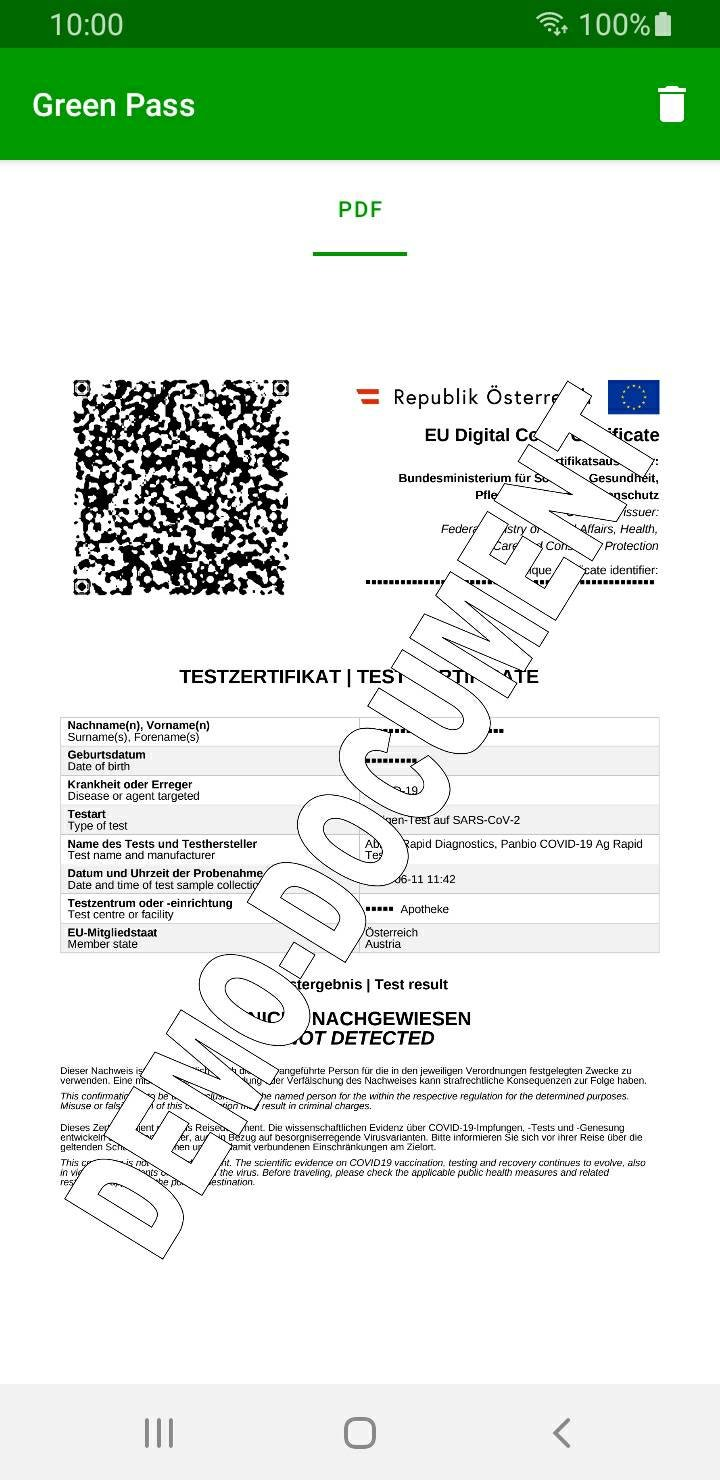
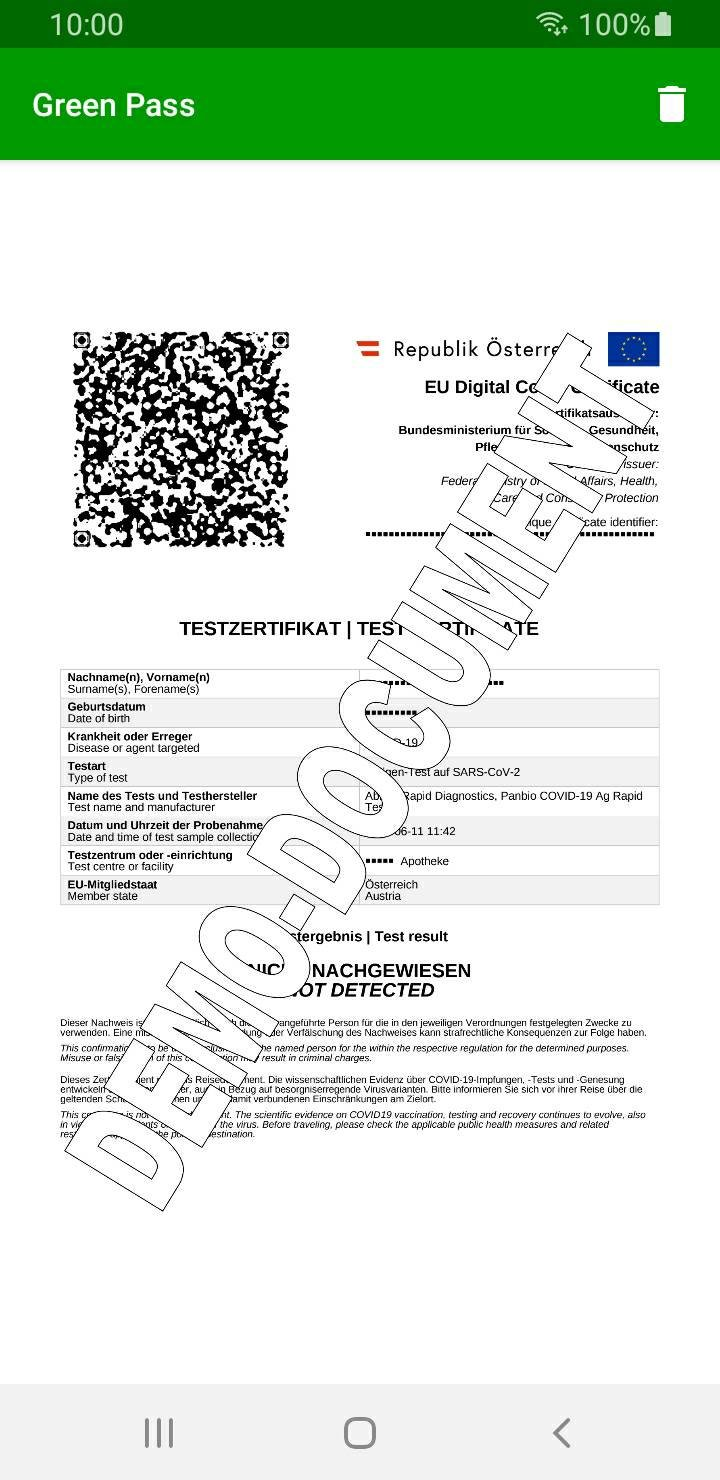
1.21 (#3)
* Fix pdf gets lost after some days

* Hide tabs when only 1 tab

* Fix TabLayoutMediator is already attached

* Refactor

* Gracefully handle read errors of pdf

* Fix no such method error due to ZXing core 3.4 requiring minsdk 24

* Save memory by reducing QR code size

* Reduce memory consumption of pdf

* Use less memory for pdf on low end device

* Handle read error from file picker gracefully

* Fix icon not shown on older android versions

* Refactoring

* Delete not needed file

* Refactoring

* Ignore exceptions during migration

* Update string

* Change screenshot

Changed region(s): [[0.0611, 0.2176, 0.9167, 0.8392], [0.4278, 0.1243, 0.55, 0.1865]]

diff --git a/app/src/main/java/com/michaeltroger/gruenerpass/pdf/PdfHandler.kt b/app/src/main/java/com/michaeltroger/gruenerpass/pdf/PdfHandler.kt
@@ -14,13 +14,18 @@ import kotlinx.coroutines.Dispatchers
 import kotlinx.coroutines.withContext
 import java.io.File
 import java.io.FileOutputStream
+import android.app.ActivityManager
+import android.content.Context
 
-private const val FILENAME = "certificate.pdf"
-private const val QR_CODE_SIZE = 1920
+
+const val PDF_FILENAME = "certificate.pdf"
+private const val QR_CODE_SIZE = 400
+private const val MULTIPLIER_PDF_RESOLUTION = 2
 
 object PdfHandler {
 
     private val context = GruenerPassApplication.instance
+    private val activityManager = context.getSystemService(Context.ACTIVITY_SERVICE) as ActivityManager
 
     private val qrCodeReader = QRCodeReader()
     private val qrCodeWriter = MultiFormatWriter()
@@ -28,7 +33,7 @@ object PdfHandler {
     private var bitmapDocument: Bitmap? = null
     private var bitmapQrCode: Bitmap? = null
 
-    private val file = File(context.cacheDir, FILENAME)
+    private val file = File(context.filesDir, PDF_FILENAME)
 
     fun getQrBitmap() = bitmapQrCode
     fun getPdfBitmap() = bitmapDocument
@@ -45,17 +50,35 @@ object PdfHandler {
         bitmapQrCode = null
     }
 
-    suspend fun parsePdfIntoBitmap() = withContext(Dispatchers.IO) {
-        val renderer = PdfRenderer(ParcelFileDescriptor.open(file, ParcelFileDescriptor.MODE_READ_ONLY))
+    /**
+     * @return true if successful
+     */
+    suspend fun parsePdfIntoBitmap(): Boolean = withContext(Dispatchers.IO) {
+        val fileDescriptor = ParcelFileDescriptor.open(file, ParcelFileDescriptor.MODE_READ_ONLY)
+        val renderer: PdfRenderer
+        try {
+            renderer = PdfRenderer(fileDescriptor)
+        } catch (exception: Exception) {
+            deleteFile()
+            return@withContext false
+        }
+
         val page: PdfRenderer.Page = renderer.openPage(0)
 
-        bitmapDocument = Bitmap.createBitmap(page.width * 3, page.height * 3, Bitmap.Config.ARGB_8888)!!
+        var width: Int = page.width
+        var height: Int = page.height
+        if (!activityManager.isLowRamDevice) {
+            width *= MULTIPLIER_PDF_RESOLUTION
+            height *= MULTIPLIER_PDF_RESOLUTION
+        }
+        bitmapDocument = Bitmap.createBitmap(width, height, Bitmap.Config.ARGB_8888)!!
         page.render(bitmapDocument!!, null, null, PdfRenderer.Page.RENDER_MODE_FOR_DISPLAY)
 
         page.close()
         renderer.close()
 
         extractQrCodeIfAvailable(bitmapDocument!!)
+        return@withContext true
     }
 
     private fun extractQrCodeIfAvailable(bitmap: Bitmap) {
@@ -89,21 +112,20 @@ object PdfHandler {
             }
         }
 
-        bitmapQrCode = Bitmap.createBitmap(w, h, Bitmap.Config.ARGB_8888)
+        bitmapQrCode = Bitmap.createBitmap(w, h, Bitmap.Config.RGB_565)
         bitmapQrCode!!.setPixels(pixels, 0, QR_CODE_SIZE, 0, 0, w, h)
     }
 
-    suspend fun copyPdfToCache(uri: Uri) = withContext(Dispatchers.IO) {
-        val inputStream = context.contentResolver.openInputStream(uri)!!
-
-        val output = FileOutputStream(file)
-        val buffer = ByteArray(1024)
-        var size: Int
-        while (inputStream.read(buffer).also { size = it } != -1) {
-            output.write(buffer, 0, size)
+    /**
+     * @return true if successful
+     */
+    suspend fun copyPdfToCache(uri: Uri): Boolean = withContext(Dispatchers.IO) {
+        try {
+            val inputStream = context.contentResolver.openInputStream(uri)!!
+            inputStream.copyTo(FileOutputStream(file))
+            return@withContext true
+        } catch (exception: Exception) {
+            return@withContext false
         }
-
-        inputStream.close()
-        output.close()
     }
 }

diff --git a/app/src/main/java/com/michaeltroger/gruenerpass/MainFragment.kt b/app/src/main/java/com/michaeltroger/gruenerpass/MainFragment.kt
@@ -7,9 +7,11 @@ import android.view.*
 import androidx.fragment.app.Fragment
 import android.widget.Button
 import androidx.activity.result.contract.ActivityResultContracts
+import androidx.constraintlayout.widget.ConstraintLayout
 import androidx.core.view.isVisible
 import androidx.lifecycle.lifecycleScope
 import androidx.viewpager2.widget.ViewPager2
+import com.google.android.material.snackbar.Snackbar
 import com.google.android.material.tabs.TabLayout
 import com.google.android.material.tabs.TabLayoutMediator
 import com.michaeltroger.gruenerpass.pdf.PagerAdapter
@@ -25,14 +27,17 @@ class MainFragment : Fragment() {
     private var deleteMenuItem: MenuItem? = null
     private var viewPager: ViewPager2? = null
     private var tabLayout: TabLayout? = null
+    private var root: ConstraintLayout? = null
 
     private val resultLauncher = registerForActivityResult(ActivityResultContracts.StartActivityForResult()) { result ->
         if (result.resultCode == Activity.RESULT_OK) {
             result.data?.data?.also { uri ->
                 lifecycleScope.launch {
-                    PdfHandler.copyPdfToCache(uri)
-                    PdfHandler.parsePdfIntoBitmap()
-                    showCertificateState()
+                    if (PdfHandler.copyPdfToCache(uri) && PdfHandler.parsePdfIntoBitmap()) {
+                        showCertificateState()
+                    } else {
+                        showErrorState()
+                    }
                 }
             }
         }
@@ -53,13 +58,20 @@ class MainFragment : Fragment() {
 
         setHasOptionsMenu(true)
 
+        root = view.findViewById(R.id.root)
+
         viewPager = view.findViewById(R.id.pager)
         tabLayout = view.findViewById(R.id.tab_layout)
         layoutMediator = TabLayoutMediator(tabLayout!!, viewPager!!) { tab, position ->
-            val textRes = when (adapter.itemCount) {
-                1 -> R.string.tab_title_pdf
+            val textRes: Int
+            when (adapter.itemCount) {
+                1 -> {
+                    tabLayout?.isVisible = false
+                    textRes = R.string.tab_title_pdf
+                }
                 else -> {
-                    when(position) {
+                    tabLayout?.isVisible = true
+                    textRes = when(position) {
                         0 -> R.string.tab_title_qr
                         else -> R.string.tab_title_pdf
                     }
@@ -75,8 +87,11 @@ class MainFragment : Fragment() {
 
         lifecycleScope.launch {
             if (PdfHandler.doesFileExist()) {
-                PdfHandler.parsePdfIntoBitmap()
-                showCertificateState()
+                if (PdfHandler.parsePdfIntoBitmap()) {
+                    showCertificateState()
+                } else {
+                    showErrorState()
+                }
             } else {
                 showEmptyState()
             }
@@ -127,7 +142,16 @@ class MainFragment : Fragment() {
         viewPager?.isVisible = true
         deleteMenuItem?.isEnabled = true
         viewPager?.adapter = adapter
-        layoutMediator.attach()
+        if (!layoutMediator.isAttached) {
+            layoutMediator.attach()
+        }
+    }
+
+    private fun showErrorState() {
+        showEmptyState()
+        root?.let {
+            Snackbar.make(it, R.string.error_reading_pdf, Snackbar.LENGTH_LONG).show()
+        }
     }
 
 }

diff --git a/app/src/main/java/com/michaeltroger/gruenerpass/update/AppMigrator.kt b/app/src/main/java/com/michaeltroger/gruenerpass/update/AppMigrator.kt
@@ -1,0 +1,54 @@
+package com.michaeltroger.gruenerpass.update
+
+import android.content.Context
+import androidx.datastore.core.DataStore
+import androidx.datastore.preferences.core.Preferences
+import androidx.datastore.preferences.core.edit
+import androidx.datastore.preferences.preferencesDataStore
+import kotlinx.coroutines.flow.Flow
+import kotlinx.coroutines.flow.map
+import androidx.datastore.preferences.core.longPreferencesKey
+import kotlinx.coroutines.Dispatchers
+import kotlinx.coroutines.GlobalScope
+import kotlinx.coroutines.flow.first
+import kotlinx.coroutines.launch
+import kotlinx.coroutines.runBlocking
+
+
+private val Context.dataStore: DataStore<Preferences> by preferencesDataStore(name = "settings")
+
+class AppMigrator(ctx: Context) {
+
+    private val context = ctx.applicationContext
+
+    private val appVersionCode = longPreferencesKey("app_version_code")
+    private val appVersionCodeFlow: Flow<Long> = context.dataStore.data
+        .map { settings ->
+            settings[appVersionCode] ?: 0
+        }
+
+    private val previousVersionCode: Long by lazy {
+        runBlocking {
+            appVersionCodeFlow.first()
+        }
+    }
+
+    private val currentVersionCode: Long by lazy {
+        context.packageManager.getPackageInfo(context.packageName, 0).versionCode.toLong()
+    }
+
+    private fun persistCurrentAppVersionCode() = GlobalScope.launch(Dispatchers.IO) {
+        context.dataStore.edit { settings ->
+            settings[appVersionCode] = currentVersionCode
+        }
+    }
+
+    fun performMigration(previousVersion: Long = previousVersionCode, currentVersion: Long = currentVersionCode) {
+        if (previousVersion < 7) {
+            AppMigrateFrom6().invoke(context)
+        }
+
+        persistCurrentAppVersionCode()
+    }
+
+}

diff --git a/app/src/main/java/com/michaeltroger/gruenerpass/update/AppMigrateFrom6.kt b/app/src/main/java/com/michaeltroger/gruenerpass/update/AppMigrateFrom6.kt
@@ -1,0 +1,21 @@
+package com.michaeltroger.gruenerpass.update
+
+import android.content.Context
+import com.michaeltroger.gruenerpass.pdf.PDF_FILENAME
+import java.io.File
+import java.lang.Exception
+
+class AppMigrateFrom6 {
+
+    operator fun invoke(context: Context) {
+        try {
+            val src = File(context.cacheDir, "certificate.pdf")
+
+            if (src.exists()) {
+                val dest = File(context.filesDir, PDF_FILENAME)
+                src.copyTo(dest)
+                src.delete()
+            }
+        } catch (ignore: Exception) {}
+    }
+}

diff --git a/app/src/main/java/com/michaeltroger/gruenerpass/GruenerPassApplication.kt b/app/src/main/java/com/michaeltroger/gruenerpass/GruenerPassApplication.kt
@@ -2,12 +2,14 @@ package com.michaeltroger.gruenerpass
 
 import android.annotation.SuppressLint
 import android.app.Application
+import com.michaeltroger.gruenerpass.update.AppMigrator
 
 class GruenerPassApplication : Application() {
 
     override fun onCreate() {
         super.onCreate()
         instance = this
+        AppMigrator(applicationContext).performMigration()
     }
 
     companion object {
